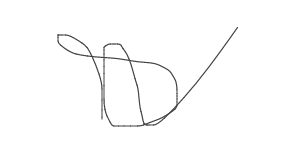
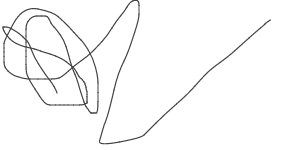
canvas issue

diff --git a/templates/finaldocument.html b/templates/finaldocument.html
@@ -189,7 +189,7 @@
 <body onload="getLocation()">
 <div class="main-wrap">
 
-<form method="post" action="/manager" id="frm1">
+<form method="post" action="/save_final" id="frm2">
     <input type="hidden" id="location" name="location">
 
 
@@ -225,16 +225,10 @@
         </tr>
 
         <tr>
-
+         <td> Enter Employee Code :</td>
             <td>
-                Employee Code:
+               {{the_document.emp_code}}
             </td>
-            <td>{{the_document.emp_code}}</td>
-
-         <!--<td> Enter Employee Code :</td>-->
-            <!--<td>-->
-               <!--<input style="width: 200px;" type="text" name="emp_code1" id="emp_code1">-->
-            <!--</td>-->
 
             <td>Meets Expectations</td>
             <td>71-80</td>
@@ -557,16 +551,16 @@
          <tr>
             <td>Reviewer Signature  :</td>
             <td style="background:#faebd7;">
-                <div id="canvas">
+                <div id="canvas1">
                     Canvas is not supported.
                 </div>
                 <script>
-				zkSignature.capture();
+				zkSignatureOne.capture();
 
                 </script>
             </td>
             <td>
-            <button name="button" type="button" onclick="zkSignature.clear()">Clear</button>
+            <button name="button" type="button" onclick="zkSignatureOne.clear()">Clear</button>
             </td>
 
 
@@ -620,9 +614,9 @@
                 x.innerHTML = "Geolocation is not supported by this browser.";
             }
         }
-         function save(){
+        function save(){
 
-            var canvas1 = document.getElementById("newSignature");
+            var canvas1 = document.getElementById("newSignature1");
 			var signature1 = canvas1.toDataURL("image/png");
 
 
@@ -637,7 +631,7 @@
 
 
         }
-         function dosubmit(e){
+        function dosubmit(e){
              if( confirm('By Submitting this form you agree that the information shared by you is correct and up-to-date ? ') ){
                 save();
              }
@@ -646,8 +640,6 @@
         }
        document.getElementById('frm2').addEventListener('submit', dosubmit);
     </script>
-</body>
-</html>
-    </script>
+</div>
 </body>
 </html>
